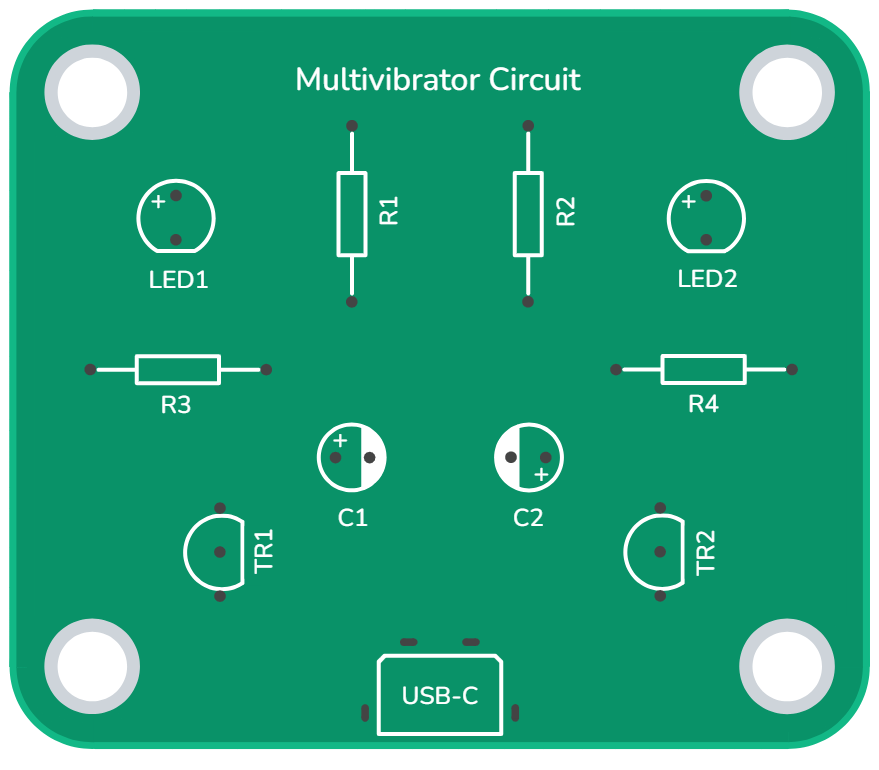
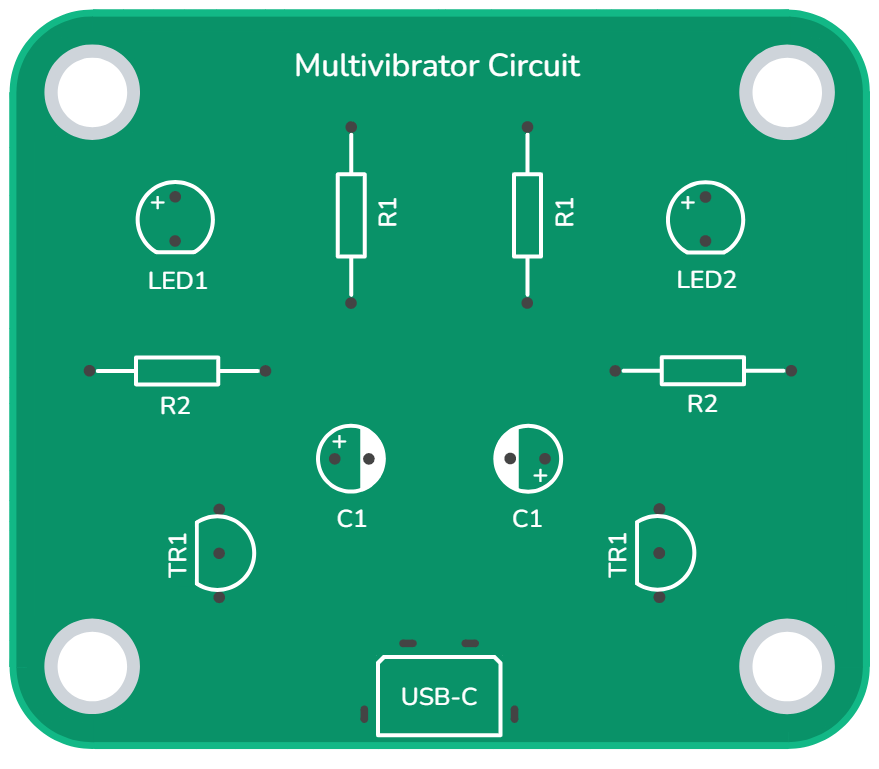
latest pcb image

diff --git a/src/app/pages/circuit/multivibrator/multivibrator.pcb-config.ts b/src/app/pages/circuit/multivibrator/multivibrator.pcb-config.ts
@@ -20,9 +20,9 @@ export const MULTIVIBRATOR_PCB_CONFIG: PcbPreviewConfig = {
       imageUrl: COMPONENT_IMAGES.Leds.led5mm,
       detailId: 'led',
       shape: 'circle',
-      x: 176,
-      y: 218,
-      radius: 51,
+      x: 175,
+      y: 220,
+      radius: 45,
     },
     {
       id: 'led2',
@@ -32,72 +32,72 @@ export const MULTIVIBRATOR_PCB_CONFIG: PcbPreviewConfig = {
       detailId: 'led',
       shape: 'circle',
       x: 706,
-      y: 217,
-      radius: 51,
+      y: 220,
+      radius: 45,
     },
     {
       id: 'r1',
-      name: '22k Resistor',
+      name: '20kΩ Resistor',
       imageUrl: COMPONENT_IMAGES.Resistors.r20k,
       detailId: 'r22k',
       shape: 'rect',
-      x: 352,
-      y: 213,
-      width: 45,
-      height: 123,
+      x: 351,
+      y: 215,
+      width: 40,
+      height: 110,
     },
     {
       id: 'r2',
-      name: '22k Resistor',
+      name: '20kΩ Resistor',
       imageUrl: COMPONENT_IMAGES.Resistors.r20k,
       detailId: 'r22k',
       shape: 'rect',
-      x: 528,
-      y: 213,
-      width: 45,
-      height: 123,
+      x: 527,
+      y: 215,
+      width: 40,
+      height: 110,
     },
     {
       id: 'r3',
-      name: '330 ohm Resistor',
+      name: '200Ω Resistor',
       imageUrl: COMPONENT_IMAGES.Resistors.r20k,
       detailId: 'r330',
       shape: 'rect',
-      x: 179,
-      y: 370,
-      width: 123,
-      height: 45,
+      x: 178,
+      y: 371,
+      width: 110,
+      height: 40,
     },
     {
       id: 'r4',
-      name: '330 ohm Resistor',
+      name: '200Ω Resistor',
       imageUrl: COMPONENT_IMAGES.Resistors.r20k,
       detailId: 'r330',
       shape: 'rect',
-      x: 703,
-      y: 370,
-      width: 123,
-      height: 45,
+      x: 704,
+      y: 371,
+      width: 110,
+      height: 40,
     },
     {
       id: 'c1',
-      name: '47uf Capacitor',
+      name: '22uf Capacitor',
       label: 'Capacitor C1',
       imageUrl: COMPONENT_IMAGES.Capacitors.c22uf,
       detailId: 'capacitor',
       shape: 'circle',
-      x: 352,
+      x: 350,
       y: 457,
       radius: 48,
     },
     {
       id: 'c2',
-      name: '47uf Capacitor',
+      name: '22uf Capacitor',
       label: 'Capacitor C2',
       imageUrl: COMPONENT_IMAGES.Capacitors.c22uf,
       detailId: 'capacitor',
       shape: 'circle',
-      x: 528,
+      x: 529,
       y: 457,
       radius: 48,
     },
@@ -108,9 +108,9 @@ export const MULTIVIBRATOR_PCB_CONFIG: PcbPreviewConfig = {
       imageUrl: COMPONENT_IMAGES.Transistors.bc547,
       detailId: 'transistor',
       shape: 'circle',
-      x: 227,
-      y: 551,
-      radius: 50,
+      x: 212,
+      y: 554,
+      radius: 48,
     },
     {
       id: 't2',
@@ -119,9 +119,9 @@ export const MULTIVIBRATOR_PCB_CONFIG: PcbPreviewConfig = {
       imageUrl: COMPONENT_IMAGES.Transistors.bc547,
       detailId: 'transistor',
       shape: 'circle',
-      x: 667,
-      y: 551,
-      radius: 50,
+      x: 652,
+      y: 554,
+      radius: 48,
     },
     {
       id: 'type-c',
@@ -130,10 +130,10 @@ export const MULTIVIBRATOR_PCB_CONFIG: PcbPreviewConfig = {
       imageUrl: COMPONENT_IMAGES.Connectors.usbC,
       detailId: 'usbC',
       shape: 'rect',
-      x: 440,
-      y: 701,
-      width: 162,
-      height: 125,
+      x: 439,
+      y: 702,
+      width: 154,
+      height: 120,
     },
   ],
 };
